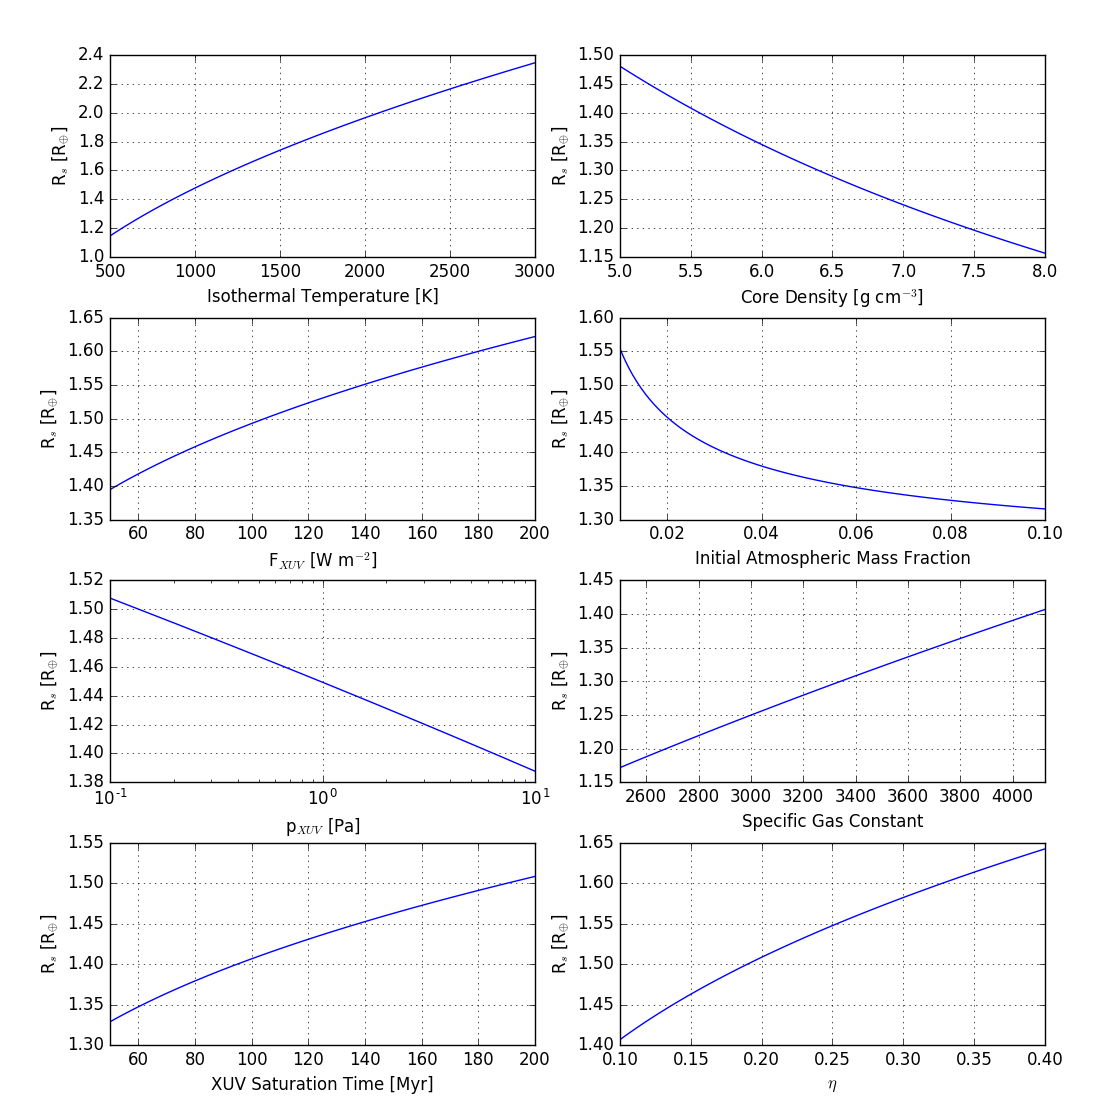
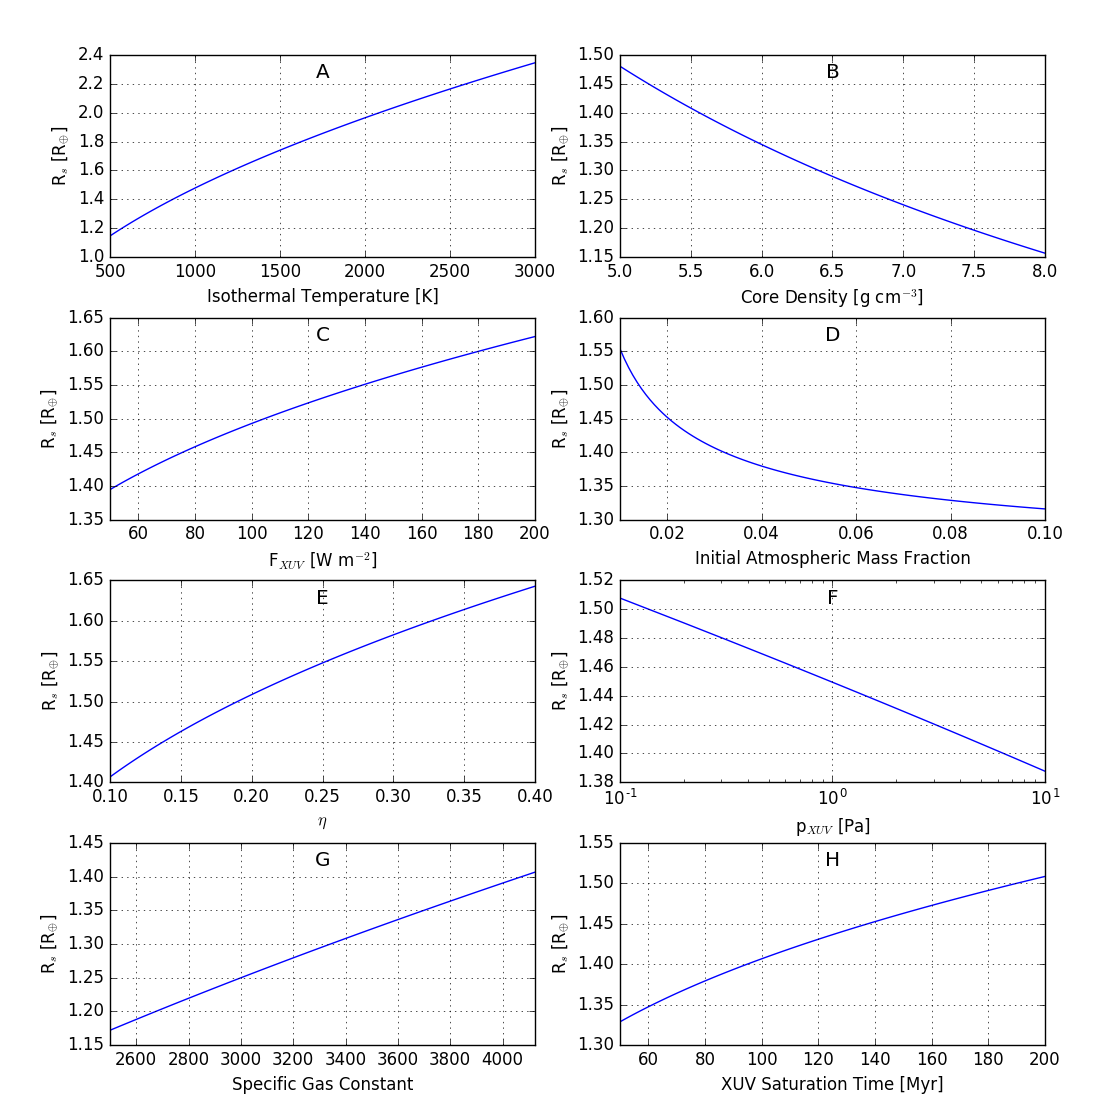
figure updates with labels

diff --git a/AnalyticEqn.py b/AnalyticEqn.py
@@ -214,6 +214,7 @@ param_labels = {0: "Isothermal Temperature [K]",
                 5: "p$_{XUV}$ [Pa]",
                 6: "Specific Gas Constant",
                 7: "XUV Saturation Time [Myr]"}
+param_titles = {0:"A",1:"B",2:"C",3:"D",4:"E",5:"F",6:"G",7:"H"}
 def vary_parameter(param_min, param_max, param_type, count=100, save_fig=False,\
         show_fig=True):
     """
@@ -284,6 +285,7 @@ def vary_parameter(param_min, param_max, param_type, count=100, save_fig=False,\
                     param*(1.0E6)*SECONDS_PER_YEAR)
 
 
+    plt.title(param_titles[param_type], y=0.85)
     plt.plot(param_vals, results/R_Earth)
     plt.xlabel(param_labels[param_type])
     plt.ylabel("R$_{s}$ [R$_{\oplus}$]")
@@ -323,20 +325,21 @@ def all_params_plotted():
 
     plt.axes(axs[1,1])
     vary_parameter(0.01, 0.1, ATMO, show_fig=False)
-
+    
     plt.axes(axs[2,0])
-    vary_parameter(0.1,10, PRES, show_fig=False)
+    vary_parameter(0.1,0.4, EFFI, show_fig=False)
 
     plt.axes(axs[2,1])
-    vary_parameter(2500,R_H2, GASC, show_fig=False)
+    vary_parameter(0.1,10, PRES, show_fig=False)
 
     plt.axes(axs[3,0])
+    vary_parameter(2500,R_H2, GASC, show_fig=False)
+
+    plt.axes(axs[3,1])
     vary_parameter(50,200, TIME, show_fig=False)
 
     #plt.delaxes(axs[3,1])
-    plt.axes(axs[3,1])
-    vary_parameter(0.1,0.4, EFFI, show_fig=False)
-
+    
     plt.show()
 
 def rs_histogram():
